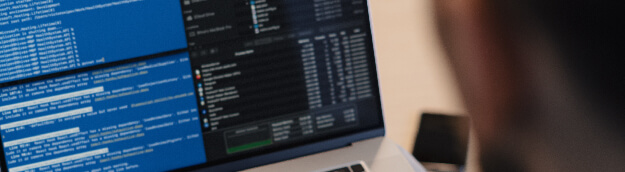
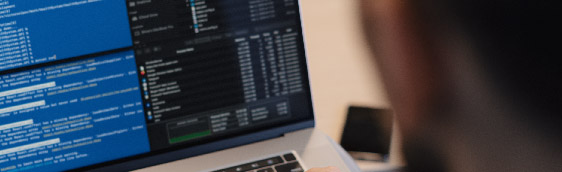
Modifique tamaños imagenes pagina servicios

diff --git a/pages/servicios.html b/pages/servicios.html
@@ -58,15 +58,15 @@
             </div>
             <div class="img2servicios text-left" data-aos="fade-up"
             data-aos-duration="3000">
-                <img class="rounded-3" src="../images/servicios/servicios-31.jpg" alt="com inst">
+                <img class="rounded-3 w-100" src="../images/servicios/servicios-31.jpg" alt="com inst">
             </div>
             <div class="img3servicios text-left" data-aos="fade-up"
             data-aos-duration="3000">
-                <img class="rounded-3" src="../images/servicios/servicios-30.jpg" alt="code">
+                <img class="rounded-3 w-100" src="../images/servicios/servicios-30.jpg" alt="code">
             </div>
             <div class="img1servicios text-center" data-aos="fade-up"
             data-aos-duration="3000">
-                <img class="rounded-3" src="../images/servicios/servicios-29.jpg" alt="redes sociales 2">
+                <img class="rounded-3 w-100" src="../images/servicios/servicios-29.jpg" alt="redes sociales 2">
             </div>
             <div class="servicios1 text-center">
                 <img class="p-2" src="../images/servicios/rr ss.png" alt="redes sociales">

diff --git a/scss/_generales.scss b/scss/_generales.scss
@@ -6,6 +6,7 @@
 body{
     background-color: #eeeeee;
     font-family: 'Poppins', sans-serif;
+    overflow-x: hidden;
     main{
         .iconoWhatsapp{
             position:fixed;

diff --git a/css/estilo.css b/css/estilo.css
@@ -7,6 +7,7 @@
 body {
   background-color: #eeeeee;
   font-family: "Poppins", sans-serif;
+  overflow-x: hidden;
 }
 body main .iconoWhatsapp {
   position: fixed;
